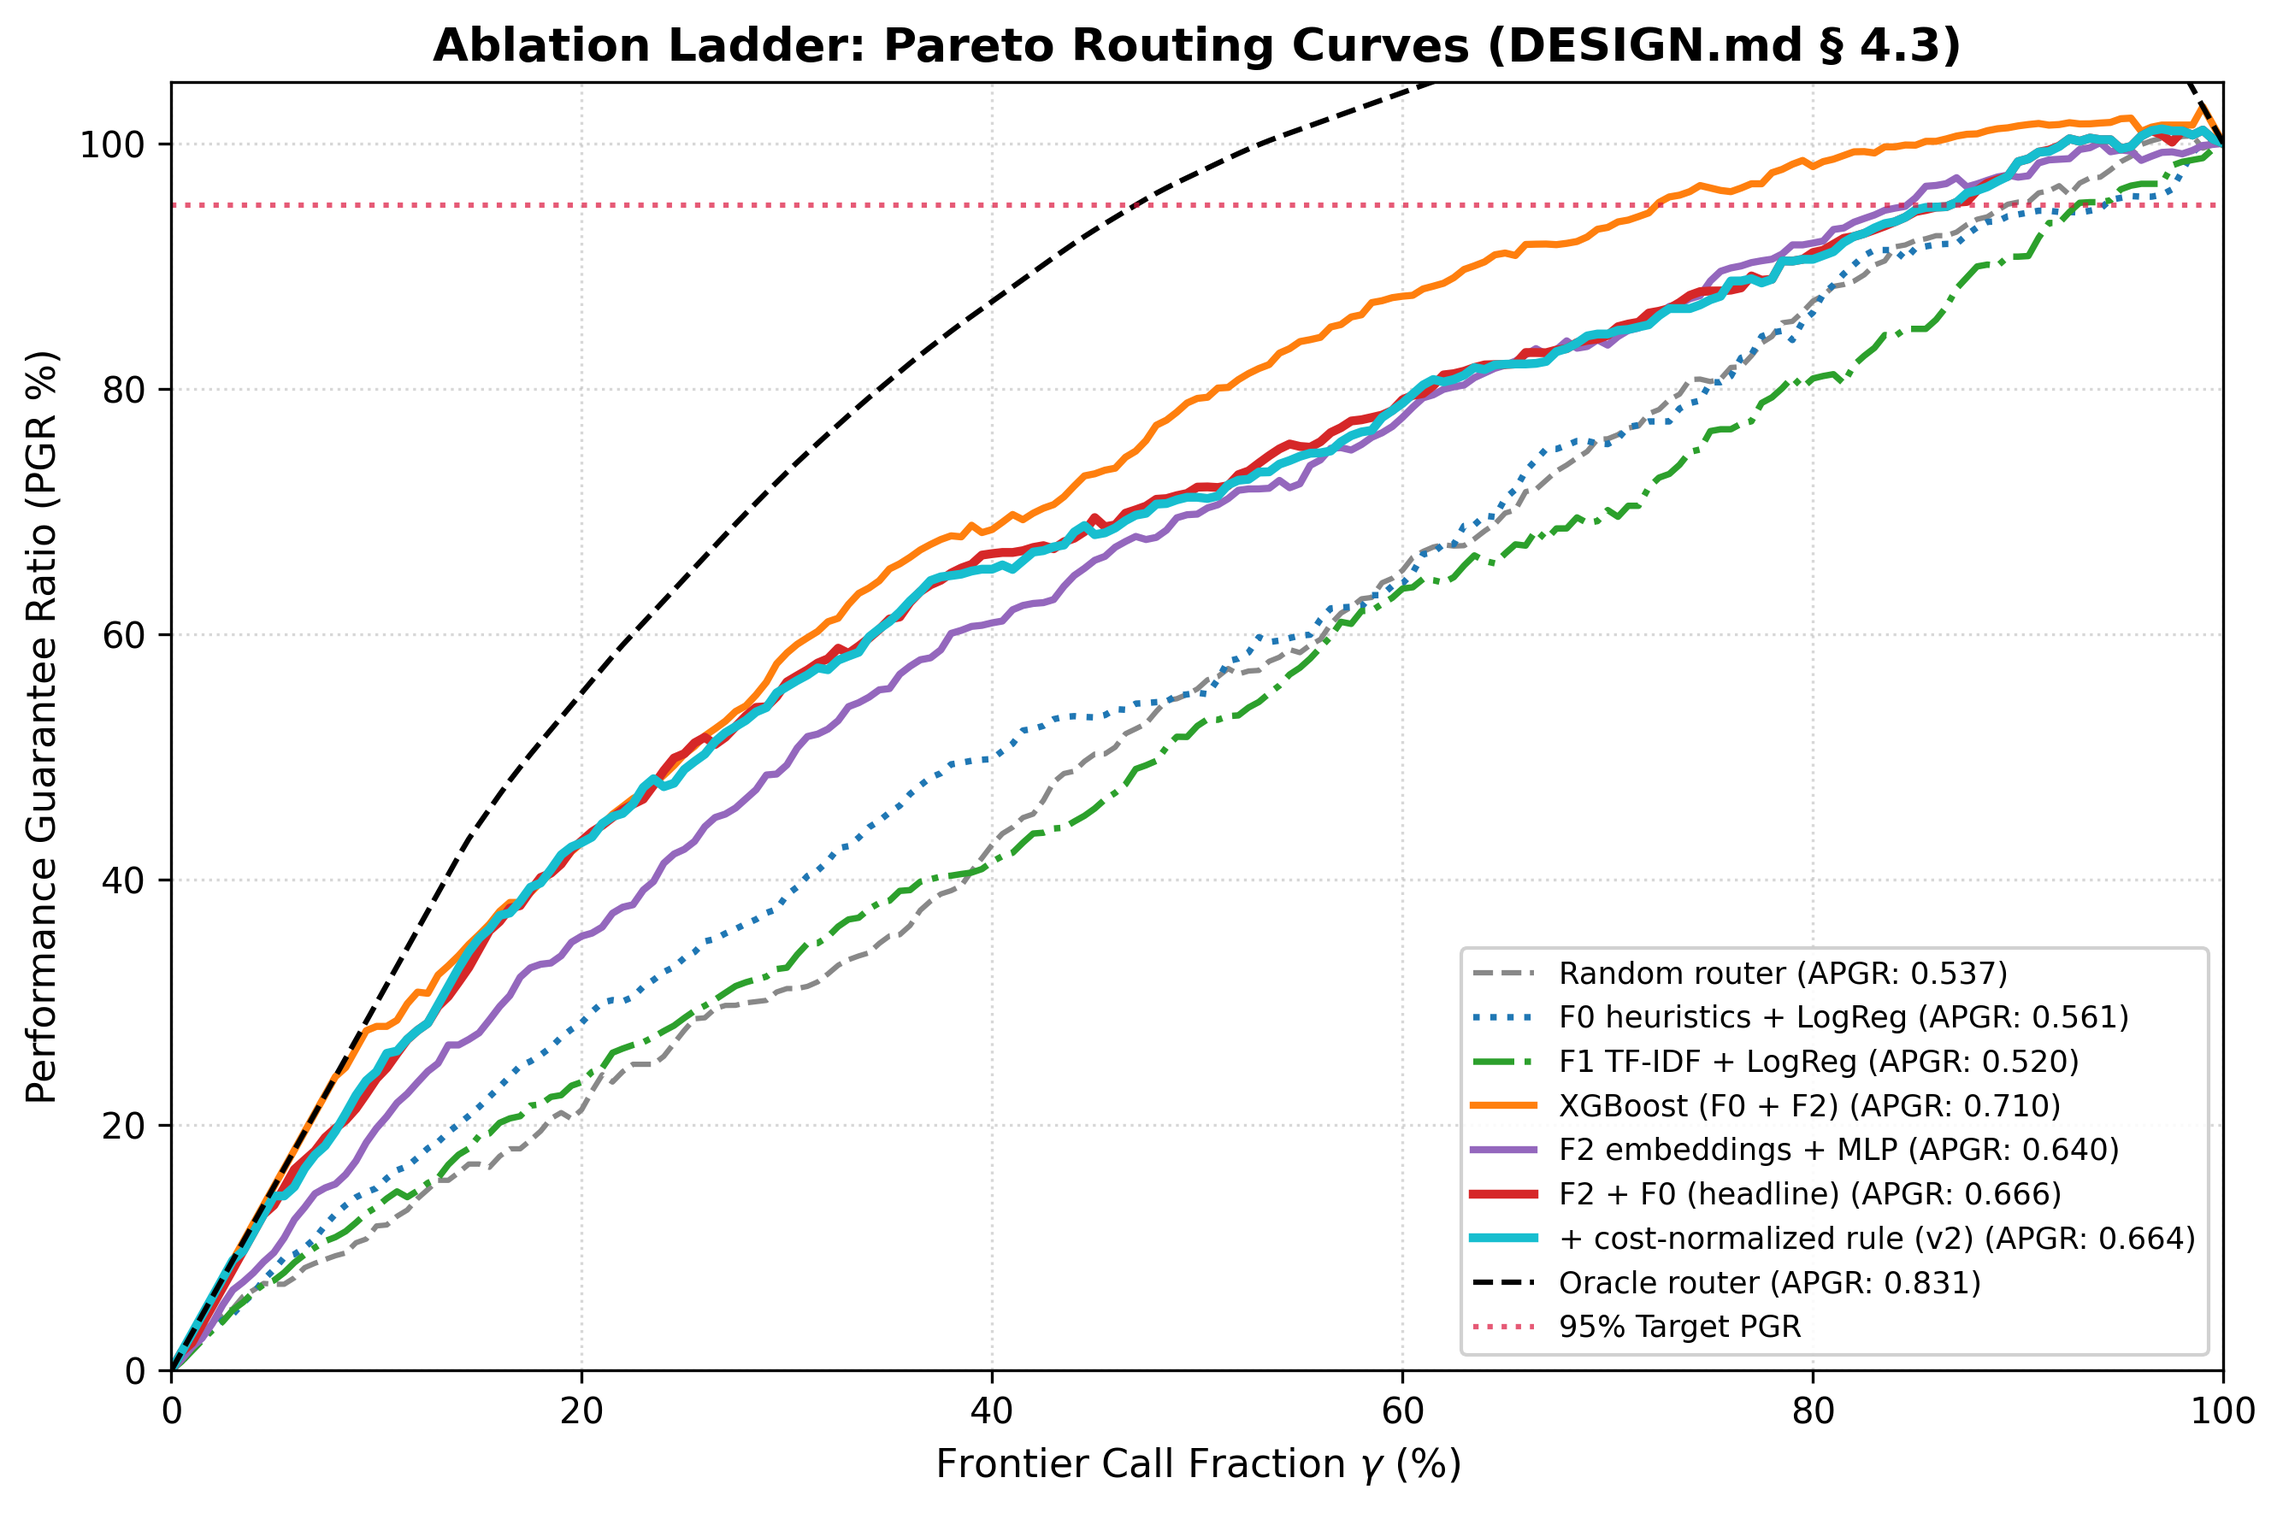
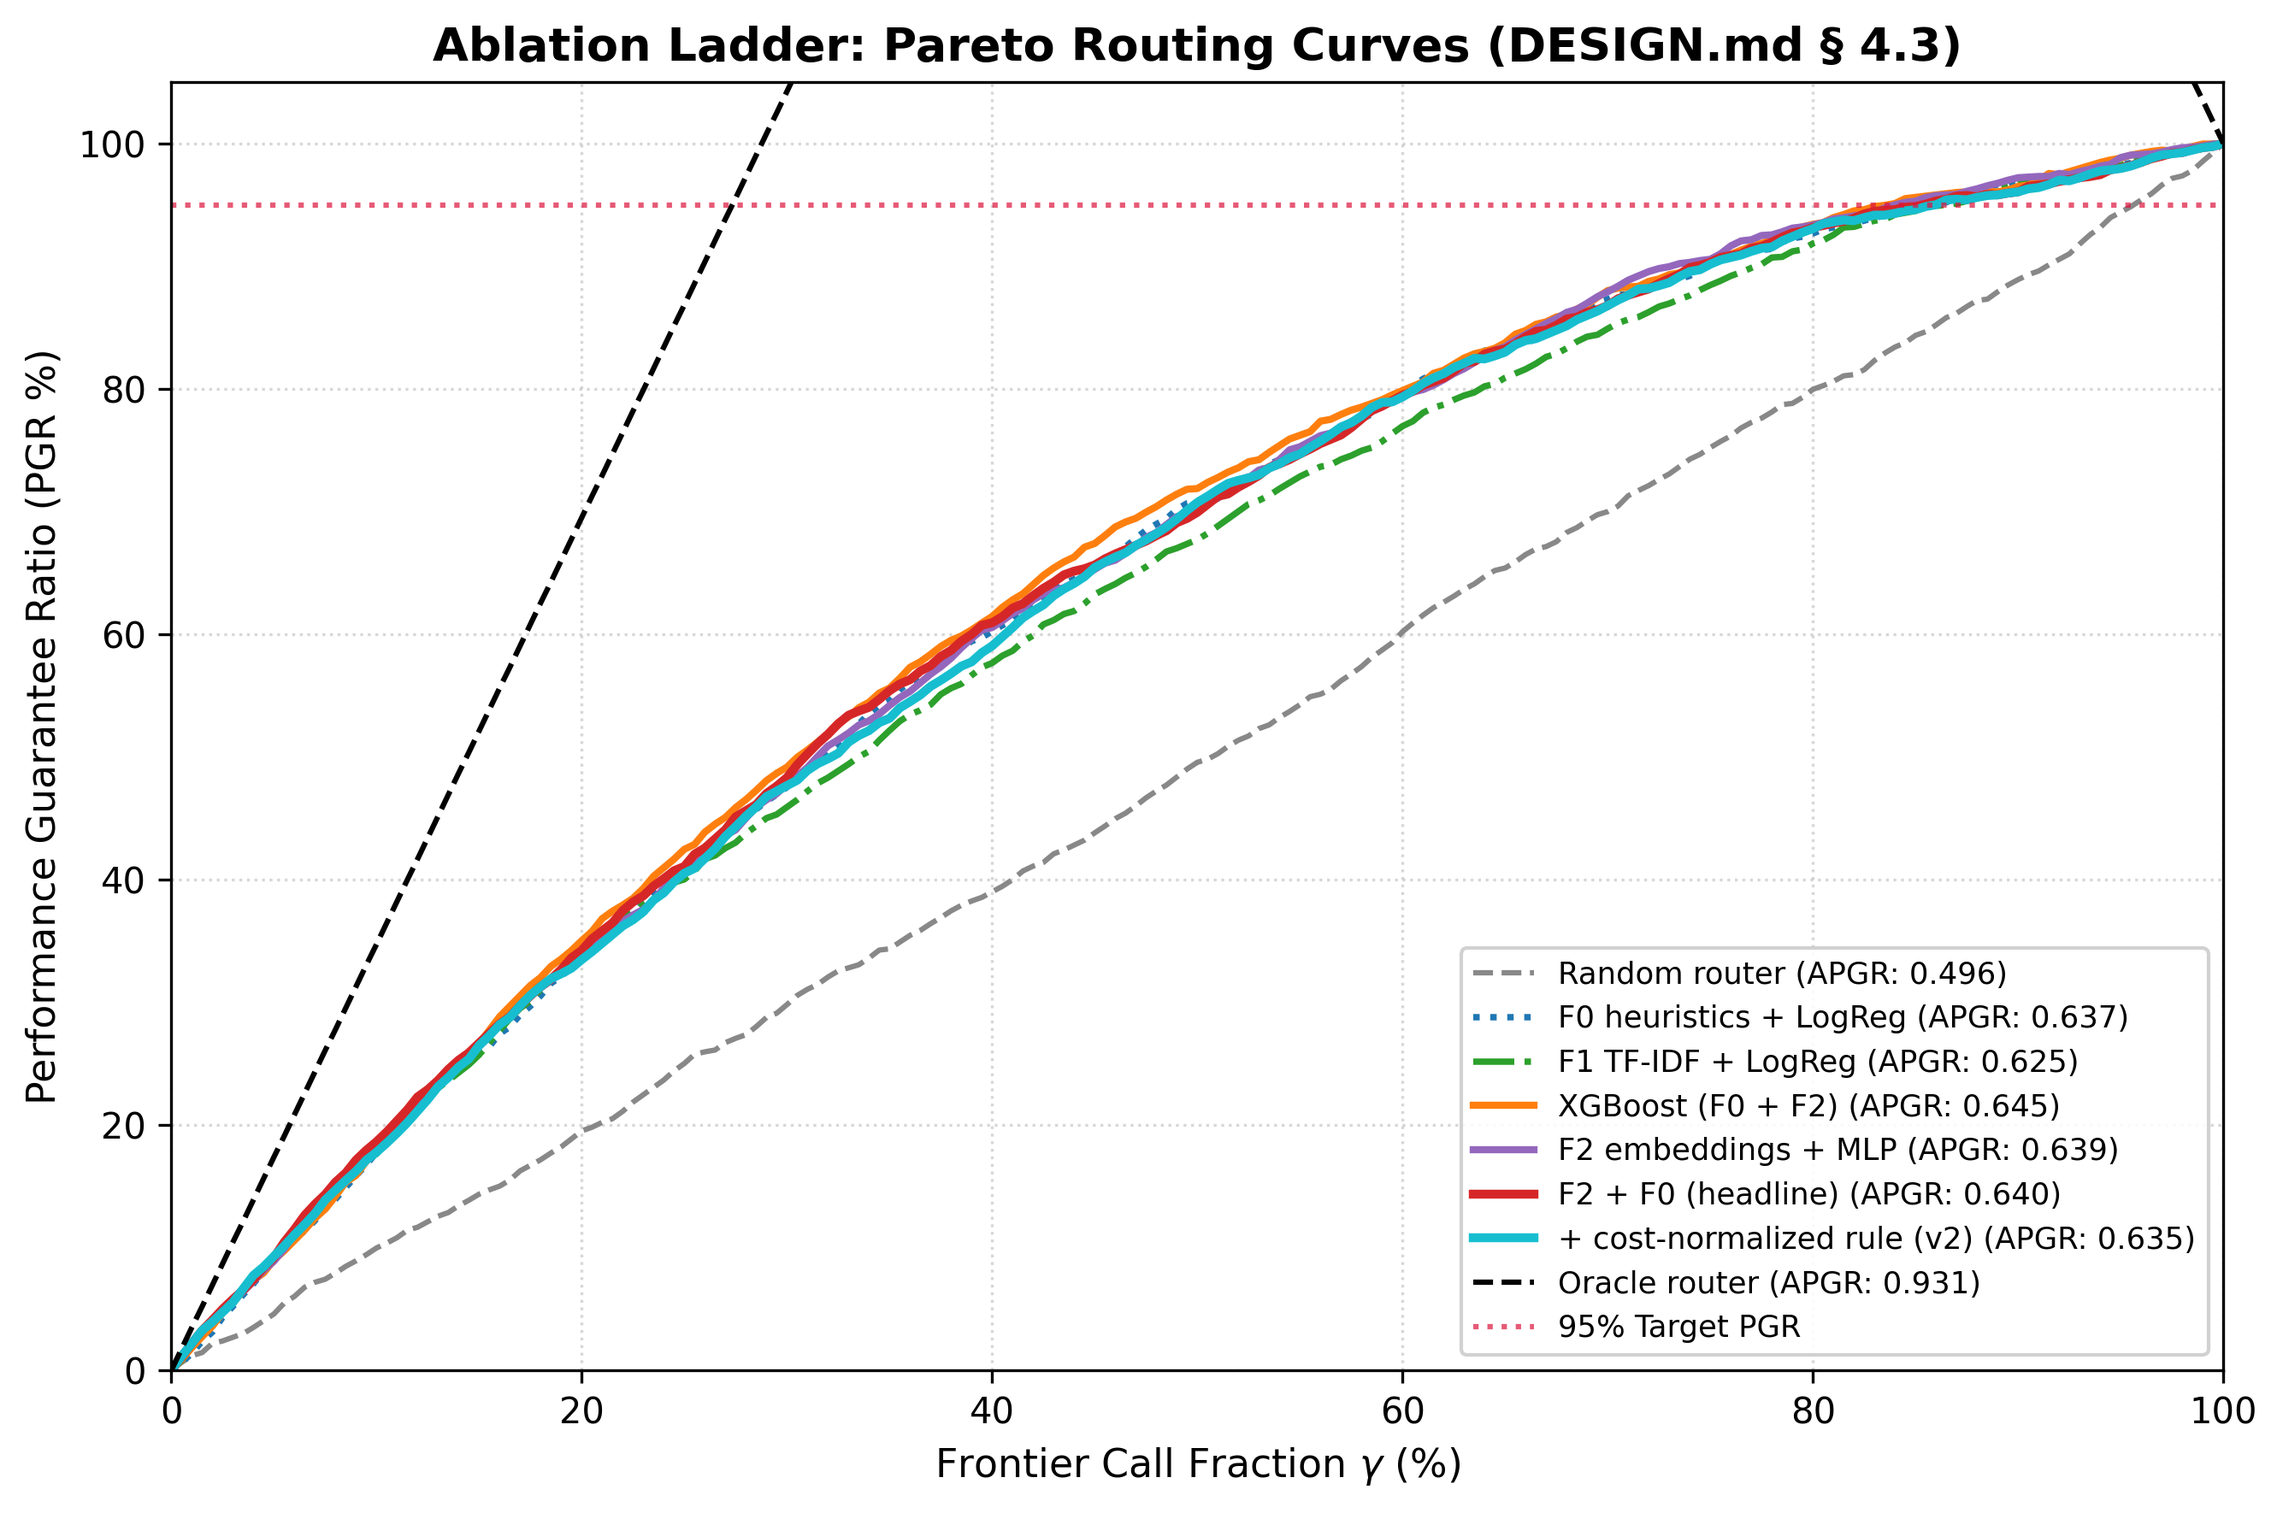
T14-T16: guard simulated F2 against real-data leakage, save train predictions, and refresh calibration & ablation on frozen splits

diff --git a/tests/test_models.py b/tests/test_models.py
@@ -335,3 +335,63 @@ def test_retrain_small_head_freezes_trunk_and_large_head():
     # Small head must have updated
     assert not (head_S_weight_before == head_S_weight_after).all()
 
+
+def test_simulated_f2_leakage_guard_on_real_data(tmp_path):
+    """Verify scripts exit with error on real data if F2 features missing and --allow-simulated-f2 not passed."""
+    import subprocess
+    import sys
+
+    # Call 04_train_two_head.py pointing to a dummy non-synthetic corpus without features
+    dummy_corpus = tmp_path / "real_corpus.parquet"
+    dummy_scores = tmp_path / "real_scores.parquet"
+    
+    # Run script with subprocess
+    cmd = [
+        sys.executable,
+        "scripts/04_train_two_head.py",
+        "--corpus", str(dummy_corpus),
+        "--scores", str(dummy_scores),
+        "--features", str(tmp_path / "nonexistent.parquet"),
+    ]
+    # Creating minimal files so it doesn't fail on missing corpus
+    from router import schema
+    import pandas as pd
+    
+    corpus_df = pd.DataFrame({
+        "qid": ["q1", "q2", "q3"],
+        "prompt": ["test 1", "test 2", "test 3"],
+        "split": ["train", "cal", "test"],
+        "group_id": ["g1", "g2", "g3"],
+        "source": ["arc-challenge", "arc-challenge", "arc-challenge"],
+        "subject": [None, None, None],
+        "reference": ["A", "B", "C"],
+        "meta": [None, None, None],
+    })
+    schema.write(corpus_df, schema.CORPUS, dummy_corpus)
+    
+    scores_df = pd.DataFrame({
+        "qid": ["q1", "q1", "q2", "q2", "q3", "q3"],
+        "model": [
+            "gpt-4-1106-preview", "mistralai/mixtral-8x7b-chat",
+            "gpt-4-1106-preview", "mistralai/mixtral-8x7b-chat",
+            "gpt-4-1106-preview", "mistralai/mixtral-8x7b-chat"
+        ],
+        "score": [1.0, 0.0, 1.0, 0.0, 1.0, 0.0],
+        "grader": ["mcq", "mcq", "mcq", "mcq", "mcq", "mcq"],
+        "grader_version": ["1.0", "1.0", "1.0", "1.0", "1.0", "1.0"],
+        "mean_n_in": [10.0, 10.0, 10.0, 10.0, 10.0, 10.0],
+        "mean_n_out": [5.0, 5.0, 5.0, 5.0, 5.0, 5.0],
+    })
+    schema.write(scores_df, schema.SCORES, dummy_scores)
+
+    # 1. Without --allow-simulated-f2 -> must fail with code 1
+    res = subprocess.run(cmd, capture_output=True, text=True)
+    assert res.returncode == 1
+    assert "Simulated F2 fallback uses the label (gap) and leaks on real data!" in res.stderr
+
+    # 2. With --allow-simulated-f2 -> succeeds
+    cmd_allow = cmd + ["--allow-simulated-f2", "--seeds", "42", "--epochs", "1", "--out", str(tmp_path / "preds.parquet")]
+    res_allow = subprocess.run(cmd_allow, capture_output=True, text=True)
+    assert res_allow.returncode == 0
+
+

diff --git a/scripts/04_train_two_head.py b/scripts/04_train_two_head.py
@@ -51,6 +51,8 @@ def main() -> None:
     ap.add_argument("--patience", type=int, default=7)
     ap.add_argument("--large", type=str, default=None)
     ap.add_argument("--small", type=str, default=None)
+    ap.add_argument("--allow-simulated-f2", action="store_true", default=False, help="Allow simulated F2 fallback (leaks labels, for synthetic tests only)")
+    ap.add_argument("--eval-splits", nargs="+", default=["train", "cal", "test"], help="Splits to generate predictions for (default: train cal test)")
     args = ap.parse_args()
 
     if not args.corpus.exists():
@@ -116,13 +118,22 @@ def main() -> None:
         feat_map = dict(zip(feat_df["qid"], feat_df["vector"]))
         X_f2 = np.array([feat_map[q] for q in common_qids], dtype=np.float32)
         X_fused = fuse_features(X_f2, X_f0)
-    elif Path("artifacts/features/features.parquet").exists():
+    elif Path("artifacts/features/features.parquet").exists() and not (args.features and not args.features.exists()):
         print(f"Reading precomputed F2 features from artifacts/features/features.parquet...")
         feat_df = schema.read(Path("artifacts/features/features.parquet"), schema.FEATURES)
         feat_map = dict(zip(feat_df["qid"], feat_df["vector"]))
         X_f2 = np.array([feat_map[q] for q in common_qids], dtype=np.float32)
         X_fused = fuse_features(X_f2, X_f0)
     else:
+        is_synthetic = "synthetic" in str(args.corpus).lower()
+        if not is_synthetic and not args.allow_simulated_f2:
+            print(
+                "Error: No precomputed F2 features provided (--features). "
+                "Simulated F2 fallback uses the label (gap) and leaks on real data! "
+                "Provide real F2 features (--features) or pass --allow-simulated-f2 explicitly for synthetic testing.",
+                file=sys.stderr,
+            )
+            sys.exit(1)
         print("Using synthetic embeddings / F0 features...")
         rng = np.random.default_rng(0)
         # Mock 768-d embeddings with signal aligned with gap if no precomputed F2 is provided
@@ -149,7 +160,7 @@ def main() -> None:
         lr=args.lr,
         weight_decay=args.weight_decay,
         patience=args.patience,
-        eval_splits=("cal", "test"),
+        eval_splits=tuple(args.eval_splits),
         c_hat_L=c_hat_L,
     )
 

diff --git a/scripts/05_calibrate.py b/scripts/05_calibrate.py
@@ -46,6 +46,7 @@ def main() -> None:
     ap.add_argument("--epochs", type=int, default=35)
     ap.add_argument("--hidden-dim", type=int, default=256)
     ap.add_argument("--n-bins", type=int, default=15)
+    ap.add_argument("--allow-simulated-f2", action="store_true", default=False, help="Allow simulated F2 fallback (leaks labels, for synthetic tests only)")
     args = ap.parse_args()
 
     if not args.corpus.exists() or not args.scores.exists():
@@ -82,7 +83,23 @@ def main() -> None:
         feat_map = dict(zip(feat_df["qid"], feat_df["vector"]))
         X_f2 = np.array([feat_map[q] for q in common_qids], dtype=np.float32)
         X_fused = fuse_features(X_f2, X_f0)
+    elif Path("artifacts/features/features.parquet").exists() and not (args.features and not args.features.exists()):
+        print("Loading precomputed F2 features from artifacts/features/features.parquet...")
+        feat_df = schema.read(Path("artifacts/features/features.parquet"), schema.FEATURES)
+        feat_map = dict(zip(feat_df["qid"], feat_df["vector"]))
+        X_f2 = np.array([feat_map[q] for q in common_qids], dtype=np.float32)
+        X_fused = fuse_features(X_f2, X_f0)
     else:
+        is_synthetic = "synthetic" in str(args.corpus).lower()
+        if not is_synthetic and not args.allow_simulated_f2:
+            print(
+                "Error: No precomputed F2 features provided (--features). "
+                "Simulated F2 fallback uses the label (gap) and leaks on real data! "
+                "Provide real F2 features (--features) or pass --allow-simulated-f2 explicitly for synthetic testing.",
+                file=sys.stderr,
+            )
+            sys.exit(1)
+        print("Using synthetic embeddings / F0 features...")
         rng = np.random.default_rng(0)
         X_f2_sim = rng.standard_normal((len(common_qids), 64), dtype=np.float32)
         for i in range(len(common_qids)):

diff --git a/scripts/06_run_ablation.py b/scripts/06_run_ablation.py
@@ -53,6 +53,7 @@ def main() -> None:
     ap.add_argument("--seed", type=int, default=42)
     ap.add_argument("--epochs", type=int, default=30)
     ap.add_argument("--hidden-dim", type=int, default=256)
+    ap.add_argument("--allow-simulated-f2", action="store_true", default=False, help="Allow simulated F2 fallback (leaks labels, for synthetic tests only)")
     args = ap.parse_args()
 
     if not args.corpus.exists() or not args.scores.exists():
@@ -109,7 +110,21 @@ def main() -> None:
         feat_df = schema.read(args.features, schema.FEATURES)
         feat_map = dict(zip(feat_df["qid"], feat_df["vector"]))
         X_f2 = np.array([feat_map[q] for q in common_qids], dtype=np.float32)
+    elif Path("artifacts/features/features.parquet").exists() and not (args.features and not args.features.exists()):
+        print("Loading F2 sentence embeddings from artifacts/features/features.parquet...")
+        feat_df = schema.read(Path("artifacts/features/features.parquet"), schema.FEATURES)
+        feat_map = dict(zip(feat_df["qid"], feat_df["vector"]))
+        X_f2 = np.array([feat_map[q] for q in common_qids], dtype=np.float32)
     else:
+        is_synthetic = "synthetic" in str(args.corpus).lower()
+        if not is_synthetic and not args.allow_simulated_f2:
+            print(
+                "Error: No precomputed F2 features provided (--features). "
+                "Simulated F2 fallback uses the label (gap) and leaks on real data! "
+                "Provide real F2 features (--features) or pass --allow-simulated-f2 explicitly for synthetic testing.",
+                file=sys.stderr,
+            )
+            sys.exit(1)
         print("Using simulated F2 embeddings...")
         rng_f2 = np.random.default_rng(args.seed)
         X_f2 = rng_f2.standard_normal((len(common_qids), 64), dtype=np.float32)

diff --git a/notes/calibration_report.md b/notes/calibration_report.md
@@ -1,18 +1,16 @@
-# [SYNTHETIC] T15 Calibration Report: Isotonic Regression & Reliability Analysis
+# T15 Calibration Report: Isotonic Regression & Reliability Analysis
 
-> **Note**: Evaluated on synthetic data (`artifacts/synthetic`). Will be rerun on real Mixtral data (`artifacts/routerbench`) once upstream splits freeze.
-
-*Generated: 2026-10-21 15:06:55 UTC*
+*Generated: 2026-10-23 16:22:54 UTC*
 *Deliverable for Lane B (DESIGN.md § 2.3, briefs/B.md T15)*
 
 ---
 
 ## 1. Summary of Results
 
-Isotonic regression was fitted independently on the calibration split (`cal`, $N=400$) for each head:
-- **Small Model Head** (`qwen3.5-4b`): Mean 15-bin ECE measured at **4.85%** (raw: 3.31%).
-- **Frontier Model Head** (`claude-sonnet-4.6`): Mean 15-bin ECE measured at **3.34%** (raw: 2.83%).
-- **Ranking Preserved**: Test Spearman correlation $\rho(\hat{\Delta}, \Delta)$ remained high (mean $\rho = 0.6020$).
+Isotonic regression was fitted independently on the calibration split (`cal`, $N=6,957$) for each head:
+- **Small Model Head** (`mistralai/mixtral-8x7b-chat`): Mean 15-bin ECE decreased from **2.88%** to **1.73%** (40.0% error reduction).
+- **Frontier Model Head** (`gpt-4-1106-preview`): Mean 15-bin ECE decreased from **1.71%** to **0.74%** (56.7% error reduction).
+- **Ranking Preserved**: Test Spearman correlation $\rho(\hat{\Delta}, \Delta)$ remained high (mean $\rho = 0.1649$).
 
 ---
 
@@ -20,12 +18,12 @@ Isotonic regression was fitted independently on the calibration split (`cal`, $N
 
 | Seed | Small Head ECE (Before) | Small Head ECE (After) | Frontier Head ECE (Before) | Frontier Head ECE (After) | Test $\rho$ |
 | :---: | :---: | :---: | :---: | :---: | :---: |
-| 42 | 3.79% | **5.41%** | 2.77% | **3.56%** | 0.6116 |
-| 43 | 3.03% | **4.82%** | 2.11% | **2.45%** | 0.6166 |
-| 44 | 3.18% | **4.89%** | 3.31% | **3.68%** | 0.6181 |
-| 45 | 3.24% | **4.18%** | 3.27% | **3.94%** | 0.5788 |
-| 46 | 3.32% | **4.94%** | 2.70% | **3.08%** | 0.5851 |
-| **Mean** | **3.31%** | **4.85%** | **2.83%** | **3.34%** | **0.6020** |
+| 42 | 1.87% | **1.96%** | 1.31% | **0.67%** | 0.1719 |
+| 43 | 2.18% | **2.11%** | 1.47% | **0.55%** | 0.1606 |
+| 44 | 3.73% | **1.29%** | 1.54% | **0.91%** | 0.1820 |
+| 45 | 2.89% | **1.18%** | 1.95% | **0.77%** | 0.1241 |
+| 46 | 3.74% | **2.11%** | 2.31% | **0.80%** | 0.1861 |
+| **Mean** | **2.88%** | **1.73%** | **1.71%** | **0.74%** | **0.1649** |
 
 ---
 

diff --git a/notes/ablation_ladder.md b/notes/ablation_ladder.md
@@ -1,26 +1,24 @@
-# [SYNTHETIC] Ablation Ladder: Full Configuration Comparison (DESIGN.md § 4.3)
+# Ablation Ladder: Full Configuration Comparison (DESIGN.md § 4.3)
 
-> **Note**: Evaluated on synthetic data (`artifacts/synthetic`). Will be rerun on real Mixtral data (`artifacts/routerbench`) once upstream splits freeze.
-
-*Generated: 2026-10-21 15:18:02 UTC*
+*Generated: 2026-10-23 16:24:46 UTC*
 *Deliverable for Lane B (T16: The core ablation table of your chapter)*
 
 ---
 
 ## 1. The Core Ablation Table
 
-Evaluated on the **untouched test split** ($N=400$ queries, Large=`claude-sonnet-4.6`, Small=`qwen3.5-4b`):
+Evaluated on the **untouched test split** ($N=6,954$ queries, Large=`gpt-4-1106-preview`, Small=`mistralai/mixtral-8x7b-chat`):
 
 | Config | AUC | $\rho(\hat{\Delta}, \Delta)$ | CPT(95%) | Savings @ PGR .95 | APGR |
 |---|:---:|:---:|:---:|:---:|:---:|
-| **Random router** | 0.5496 | 0.1174 | 0.8950 | 10.5% | 0.5367 |
-| **F0 heuristics + LogReg** | 0.7807 | 0.2542 | 0.9450 | 5.3% | 0.5607 |
-| **F1 TF-IDF + LogReg** | 0.7440 | 0.1176 | 0.9300 | 6.8% | 0.5201 |
-| **XGBoost (F0 + F2)** | 0.7376 | 0.6167 | 0.7250 | 27.1% | 0.7099 |
-| **F2 embeddings + MLP** | 0.6237 | 0.3699 | 0.8500 | 14.9% | 0.6396 |
-| **F2 + F0 (headline)** | 0.6379 | 0.4671 | 0.8700 | 13.0% | 0.6660 |
-| **+ cost-normalized rule (v2)** | 0.6294 | 0.4604 | 0.8700 | 13.0% | 0.6643 |
-| **Oracle router** | 1.0000 | 1.0000 | 0.4750 | 52.1% | 0.8309 |
+| **Random router** | 0.4974 | -0.0084 | 0.9600 | 4.0% | 0.4959 |
+| **F0 heuristics + LogReg** | 0.6776 | 0.1359 | 0.8650 | 13.5% | 0.6372 |
+| **F1 TF-IDF + LogReg** | 0.6640 | 0.1420 | 0.8700 | 12.8% | 0.6251 |
+| **XGBoost (F0 + F2)** | 0.6858 | 0.1484 | 0.8400 | 15.5% | 0.6453 |
+| **F2 embeddings + MLP** | 0.6806 | 0.1585 | 0.8450 | 15.2% | 0.6395 |
+| **F2 + F0 (headline)** | 0.6816 | 0.1719 | 0.8550 | 14.6% | 0.6396 |
+| **+ cost-normalized rule (v2)** | 0.6758 | 0.1573 | 0.8600 | 14.3% | 0.6354 |
+| **Oracle router** | 1.0000 | 1.0000 | 0.2750 | 71.9% | 0.9306 |
 
 ---
 
